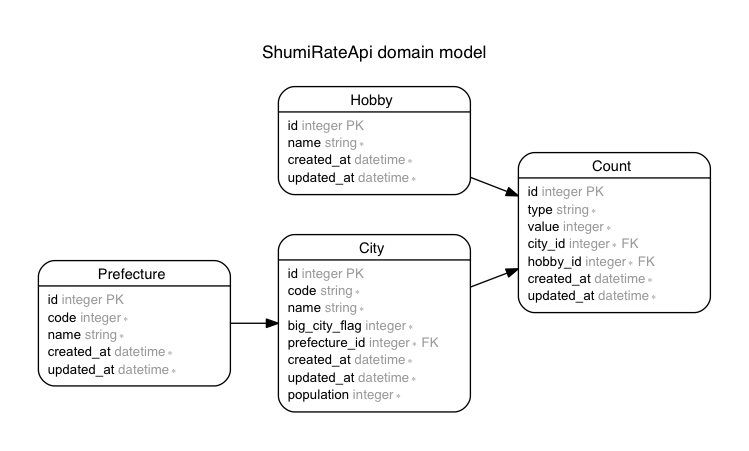
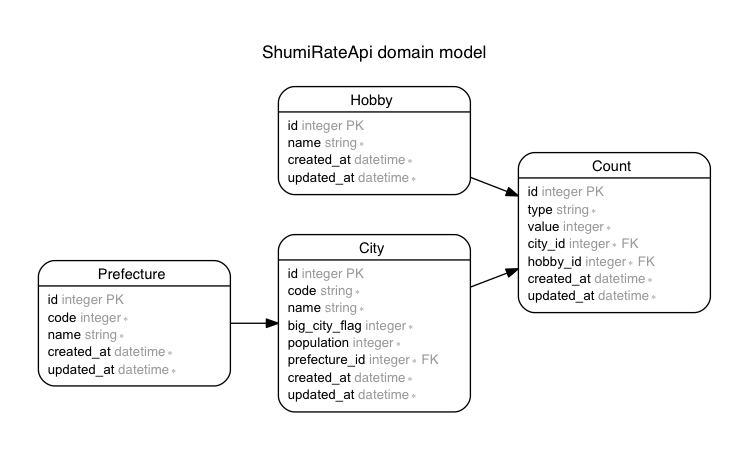
rake db:migrate:reset && annotate && erd

Changed region(s): [[0.3685, 0.745, 0.5834, 0.9002]]

diff --git a/db/schema.rb b/db/schema.rb
@@ -10,26 +10,26 @@
 #
 # It's strongly recommended that you check this file into your version control system.
 
-ActiveRecord::Schema.define(version: 20161127061657) do
+ActiveRecord::Schema.define(version: 20161126171038) do
 
   # These are extensions that must be enabled in order to support this database
   enable_extension "plpgsql"
 
-  create_table "cities", force: :cascade do |t|
-    t.string   "code",                      null: false
-    t.string   "name",                      null: false
-    t.integer  "big_city_flag",             null: false
+  create_table "cities", force: :cascade, comment: "市区町村" do |t|
+    t.string   "code",                      null: false, comment: "市区町村コード"
+    t.string   "name",                      null: false, comment: "市区町村名"
+    t.integer  "big_city_flag",             null: false, comment: "特別区・行政区フラグ"
+    t.integer  "population",    default: 0, null: false, comment: "人口"
     t.integer  "prefecture_id",             null: false
     t.datetime "created_at",                null: false
     t.datetime "updated_at",                null: false
-    t.integer  "population",    default: 0, null: false
     t.index ["code"], name: "index_cities_on_code", unique: true, using: :btree
     t.index ["prefecture_id"], name: "index_cities_on_prefecture_id", using: :btree
   end
 
-  create_table "counts", force: :cascade do |t|
-    t.string   "type",                   null: false
-    t.integer  "value",      default: 0, null: false
+  create_table "counts", force: :cascade, comment: "取得件数" do |t|
+    t.string   "type",                   null: false, comment: "取得件数種別"
+    t.integer  "value",      default: 0, null: false, comment: "取得件数値"
     t.integer  "city_id",                null: false
     t.integer  "hobby_id",               null: false
     t.datetime "created_at",             null: false
@@ -39,16 +39,16 @@ ActiveRecord::Schema.define(version: 20161127061657) do
     t.index ["type"], name: "index_counts_on_type", using: :btree
   end
 
-  create_table "hobbies", force: :cascade do |t|
-    t.string   "name",       null: false
+  create_table "hobbies", force: :cascade, comment: "趣味" do |t|
+    t.string   "name",       null: false, comment: "趣味名"
     t.datetime "created_at", null: false
     t.datetime "updated_at", null: false
     t.index ["name"], name: "index_hobbies_on_name", unique: true, using: :btree
   end
 
-  create_table "prefectures", force: :cascade do |t|
-    t.integer  "code",       null: false
-    t.string   "name",       null: false
+  create_table "prefectures", force: :cascade, comment: "都道府県" do |t|
+    t.integer  "code",       null: false, comment: "都道府県コード"
+    t.string   "name",       null: false, comment: "都道府県名"
     t.datetime "created_at", null: false
     t.datetime "updated_at", null: false
     t.index ["code"], name: "index_prefectures_on_code", unique: true, using: :btree

diff --git a/app/serializers/city_serializer.rb b/app/serializers/city_serializer.rb
@@ -5,11 +5,11 @@
 #  id            :integer          not null, primary key
 #  code          :string           not null
 #  name          :string           not null
+#  population    :integer          default(0), not null
 #  big_city_flag :integer          not null
 #  prefecture_id :integer          not null
 #  created_at    :datetime         not null
 #  updated_at    :datetime         not null
-#  population    :integer          default(0), not null
 #
 # Indexes
 #
@@ -18,7 +18,7 @@
 #
 # Foreign Keys
 #
-#  fk_rails_584d859bfb  (prefecture_id => prefectures.id)
+#  fk_rails_cc74ecd368  (prefecture_id => prefectures.id)
 #
 
 class CitySerializer < ActiveModel::Serializer

diff --git a/app/models/city.rb b/app/models/city.rb
@@ -5,11 +5,11 @@
 #  id            :integer          not null, primary key
 #  code          :string           not null
 #  name          :string           not null
+#  population    :integer          default(0), not null
 #  big_city_flag :integer          not null
 #  prefecture_id :integer          not null
 #  created_at    :datetime         not null
 #  updated_at    :datetime         not null
-#  population    :integer          default(0), not null
 #
 # Indexes
 #
@@ -18,7 +18,7 @@
 #
 # Foreign Keys
 #
-#  fk_rails_584d859bfb  (prefecture_id => prefectures.id)
+#  fk_rails_cc74ecd368  (prefecture_id => prefectures.id)
 #
 
 class City < ApplicationRecord

diff --git a/spec/models/city_spec.rb b/spec/models/city_spec.rb
@@ -5,11 +5,11 @@
 #  id            :integer          not null, primary key
 #  code          :string           not null
 #  name          :string           not null
+#  population    :integer          default(0), not null
 #  big_city_flag :integer          not null
 #  prefecture_id :integer          not null
 #  created_at    :datetime         not null
 #  updated_at    :datetime         not null
-#  population    :integer          default(0), not null
 #
 # Indexes
 #
@@ -18,7 +18,7 @@
 #
 # Foreign Keys
 #
-#  fk_rails_584d859bfb  (prefecture_id => prefectures.id)
+#  fk_rails_cc74ecd368  (prefecture_id => prefectures.id)
 #
 
 require 'rails_helper'

diff --git a/app/serializers/shop_serializer.rb b/app/serializers/shop_serializer.rb
@@ -18,8 +18,8 @@
 #
 # Foreign Keys
 #
-#  fk_rails_976a7ef2fa  (city_id => cities.id)
-#  fk_rails_c20bf40fc6  (hobby_id => hobbies.id)
+#  fk_rails_48d7365507  (city_id => cities.id)
+#  fk_rails_724d681eb2  (hobby_id => hobbies.id)
 #
 
 class ShopSerializer < ActiveModel::Serializer

diff --git a/app/serializers/spot_serializer.rb b/app/serializers/spot_serializer.rb
@@ -18,8 +18,8 @@
 #
 # Foreign Keys
 #
-#  fk_rails_976a7ef2fa  (city_id => cities.id)
-#  fk_rails_c20bf40fc6  (hobby_id => hobbies.id)
+#  fk_rails_48d7365507  (city_id => cities.id)
+#  fk_rails_724d681eb2  (hobby_id => hobbies.id)
 #
 
 class SpotSerializer < ActiveModel::Serializer

diff --git a/app/models/count.rb b/app/models/count.rb
@@ -18,8 +18,8 @@
 #
 # Foreign Keys
 #
-#  fk_rails_976a7ef2fa  (city_id => cities.id)
-#  fk_rails_c20bf40fc6  (hobby_id => hobbies.id)
+#  fk_rails_48d7365507  (city_id => cities.id)
+#  fk_rails_724d681eb2  (hobby_id => hobbies.id)
 #
 
 class Count < ApplicationRecord

diff --git a/spec/models/count_spec.rb b/spec/models/count_spec.rb
@@ -18,8 +18,8 @@
 #
 # Foreign Keys
 #
-#  fk_rails_976a7ef2fa  (city_id => cities.id)
-#  fk_rails_c20bf40fc6  (hobby_id => hobbies.id)
+#  fk_rails_48d7365507  (city_id => cities.id)
+#  fk_rails_724d681eb2  (hobby_id => hobbies.id)
 #
 
 require 'rails_helper'

diff --git a/spec/models/shop_spec.rb b/spec/models/shop_spec.rb
@@ -18,8 +18,8 @@
 #
 # Foreign Keys
 #
-#  fk_rails_976a7ef2fa  (city_id => cities.id)
-#  fk_rails_c20bf40fc6  (hobby_id => hobbies.id)
+#  fk_rails_48d7365507  (city_id => cities.id)
+#  fk_rails_724d681eb2  (hobby_id => hobbies.id)
 #
 
 require 'rails_helper'

diff --git a/spec/models/spot_spec.rb b/spec/models/spot_spec.rb
@@ -18,8 +18,8 @@
 #
 # Foreign Keys
 #
-#  fk_rails_976a7ef2fa  (city_id => cities.id)
-#  fk_rails_c20bf40fc6  (hobby_id => hobbies.id)
+#  fk_rails_48d7365507  (city_id => cities.id)
+#  fk_rails_724d681eb2  (hobby_id => hobbies.id)
 #
 
 require 'rails_helper'

diff --git a/app/models/shop.rb b/app/models/shop.rb
@@ -18,8 +18,8 @@
 #
 # Foreign Keys
 #
-#  fk_rails_976a7ef2fa  (city_id => cities.id)
-#  fk_rails_c20bf40fc6  (hobby_id => hobbies.id)
+#  fk_rails_48d7365507  (city_id => cities.id)
+#  fk_rails_724d681eb2  (hobby_id => hobbies.id)
 #
 
 class Shop < Count

diff --git a/app/models/spot.rb b/app/models/spot.rb
@@ -18,8 +18,8 @@
 #
 # Foreign Keys
 #
-#  fk_rails_976a7ef2fa  (city_id => cities.id)
-#  fk_rails_c20bf40fc6  (hobby_id => hobbies.id)
+#  fk_rails_48d7365507  (city_id => cities.id)
+#  fk_rails_724d681eb2  (hobby_id => hobbies.id)
 #
 
 class Spot < Count
